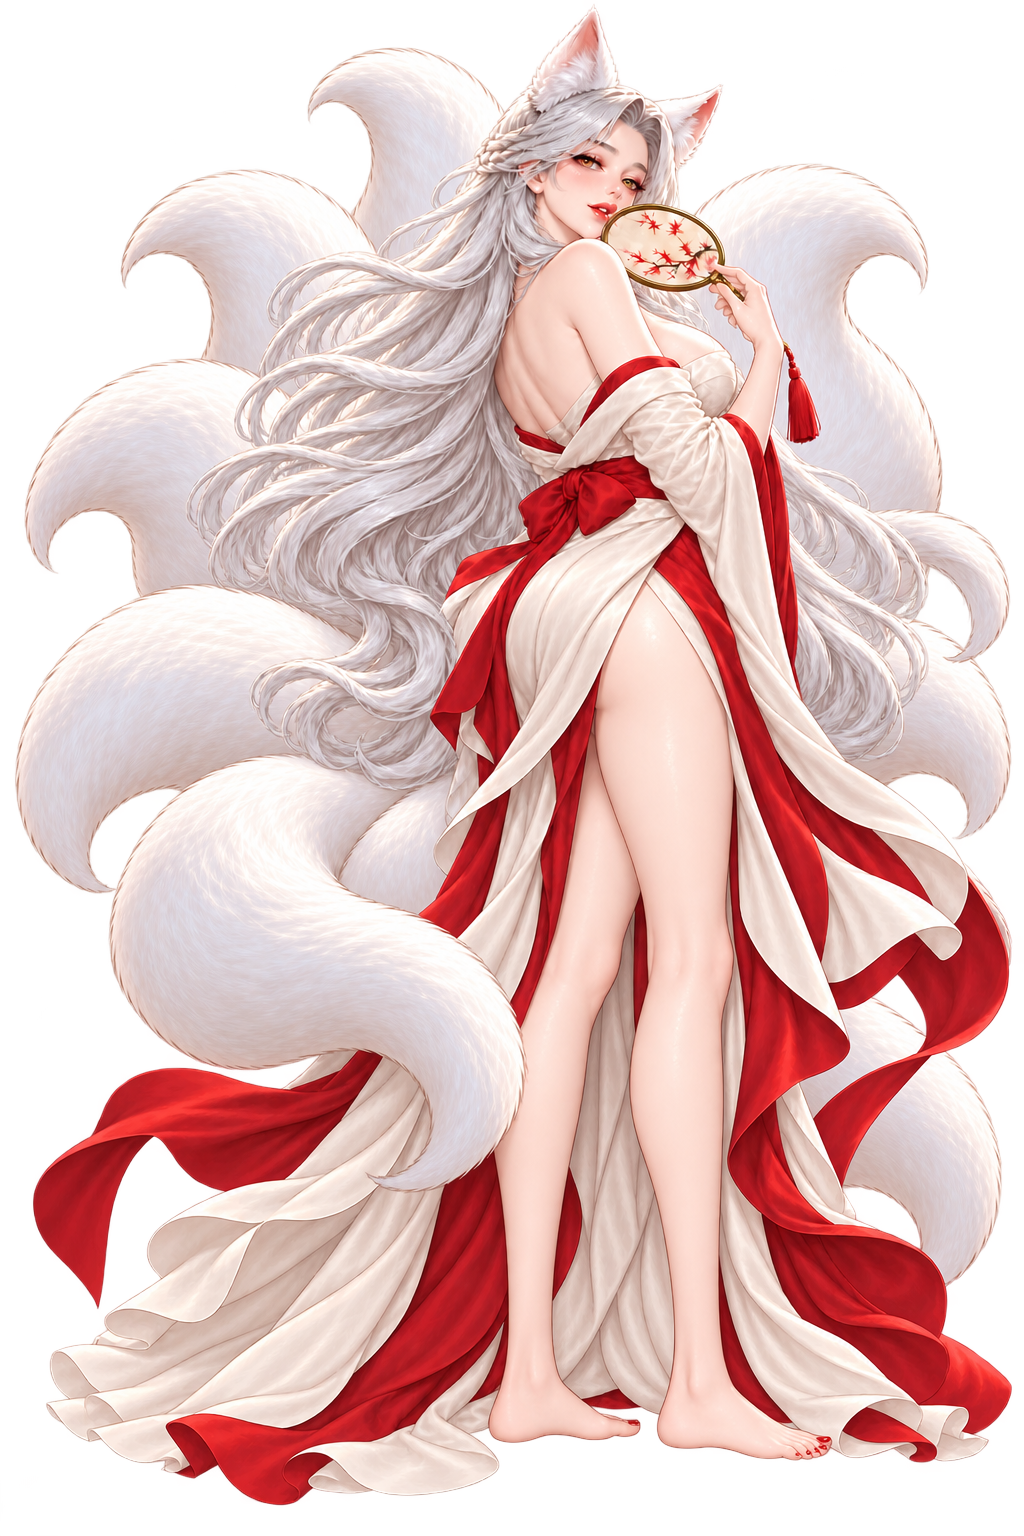
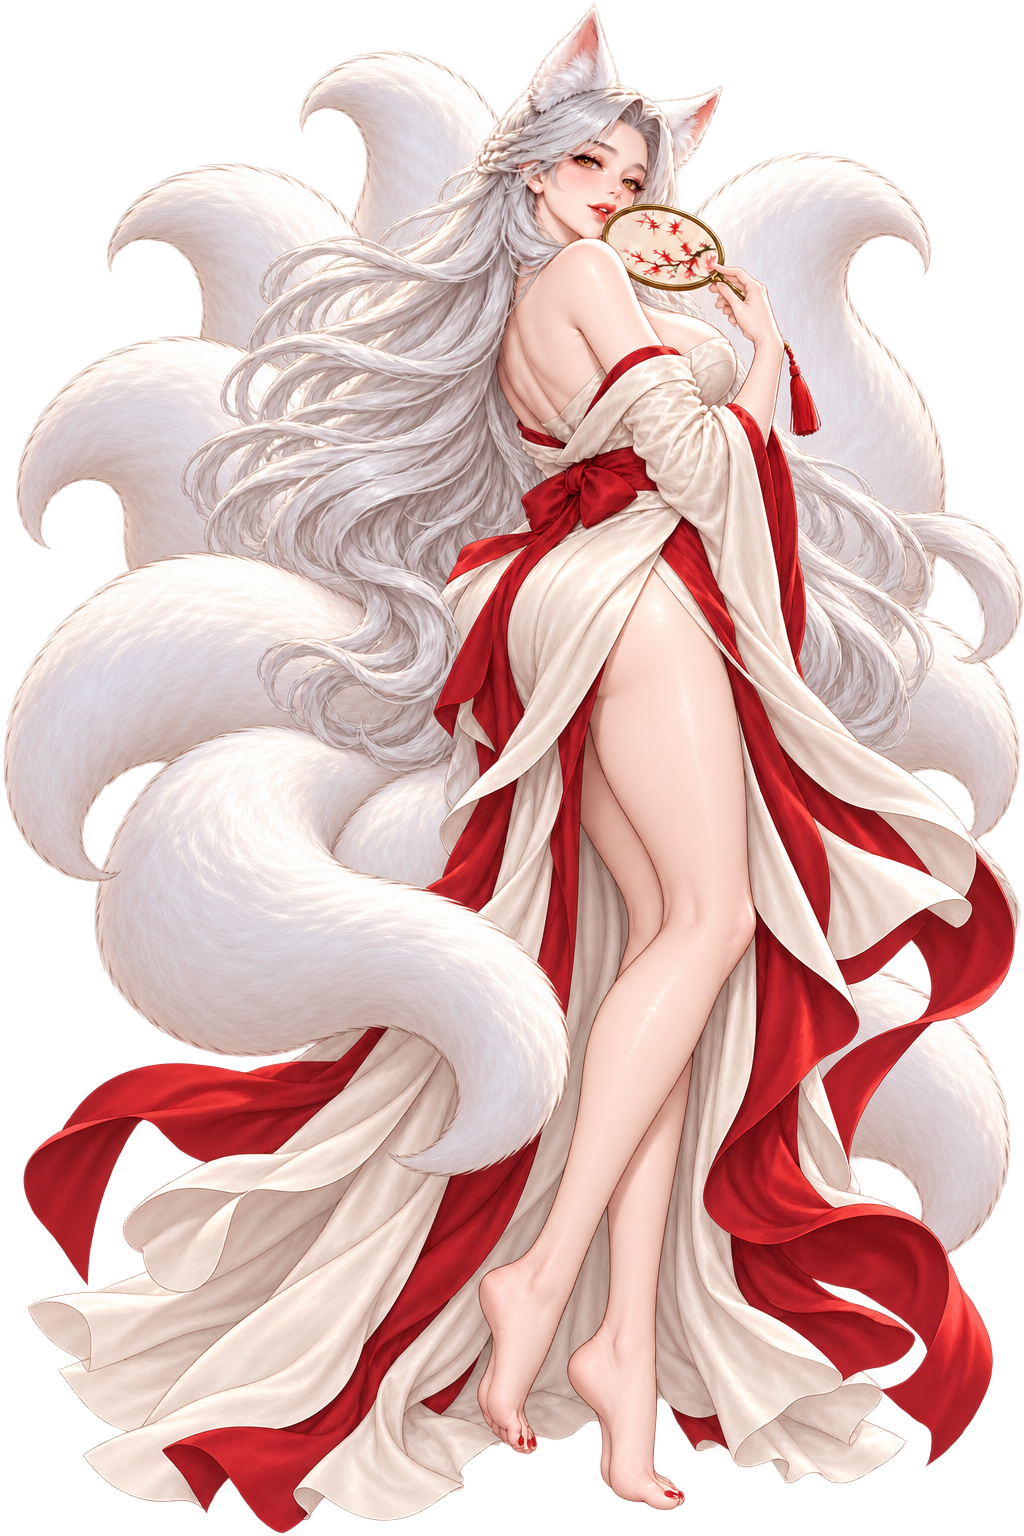
sample: 백설 포즈 되돌리고, 숨쉬기를 윗몸만 움직이게
- 발을 붙인 백설 그림은 자세가 어색해 이전 그림으로 되돌림
- 숨쉬기: 그림 전체가 커졌다 작아지던 것을, 다리·치마는 고정하고 가슴 위쪽만 허리를 축으로 살짝 오르내리게 바꿈(같은 그림 두 장을 마스크로 겹침)
- 누를 때 움찔하던 효과는 화면이 흔들려 보여 뺌(대사만 뜸)

Claude-Session: https://claude.ai/code/session_01AG3ixGBdGKPAAzXvjh6L4F

diff --git a/src/styles.css b/src/styles.css
@@ -603,12 +603,13 @@ body:has(.guide) .sheet { max-height: calc(100dvh - 150px); }
 .heroine { position: relative; }
 .heroine-art { position: relative; height: 100%; width: 100%; display: flex; justify-content: center; align-items: flex-end; }
 .heroine-art img { position: absolute; inset: 0; height: 100%; width: 100%; object-fit: contain; object-position: center bottom; }
-.heroine .heroine-img { transform-origin: 50% 100%; animation: breathe 4.2s ease-in-out infinite; filter: none; }
-.heroine-art.poked .heroine-img { animation: poke .5s ease-out, breathe 4.2s ease-in-out .5s infinite; }
+/* 숨쉬기: 아래(다리·치마)는 고정, 위(가슴·어깨·머리)만 허리를 축으로 아주 살짝 오르내린다.
+   같은 그림 두 장을 위·아래 그라데이션 마스크로 겹쳐 이음매가 보이지 않게 한다. */
+.heroine .heroine-img { -webkit-mask-image: linear-gradient(to bottom, transparent 40%, #000 56%); mask-image: linear-gradient(to bottom, transparent 40%, #000 56%); }
+.heroine .heroine-upper { -webkit-mask-image: linear-gradient(to bottom, #000 40%, transparent 56%); mask-image: linear-gradient(to bottom, #000 40%, transparent 56%); transform-origin: 50% 60%; animation: breathe 4.6s ease-in-out infinite; pointer-events: none; }
 /* 그림자: 그림의 맨 아래(발·치맛자락)만 잘라 납작하게 눕힌 실루엣 */
 .heroine .heroine-shadow { clip-path: inset(90% 0 0 0); transform-origin: 50% 100%; transform: translateY(2px) scaleY(.35); filter: brightness(0) blur(5px); opacity: .28; pointer-events: none; }
-@keyframes breathe { 0%, 100% { transform: scale(1, 1); } 50% { transform: scale(1.004, 1.012); } }
-@keyframes poke { 0% { transform: scale(1, 1); } 30% { transform: scale(1.025, .975); } 65% { transform: scale(.99, 1.018); } 100% { transform: scale(1, 1); } }
+@keyframes breathe { 0%, 100% { transform: scale(1, 1); } 45% { transform: scale(1.004, 1.009); } }
 .say { position: absolute; left: 14px; right: 14px; top: 8px; padding: 10px 12px; border-radius: 14px; background: rgba(255,252,248,.96); border: 1px solid var(--line); box-shadow: 0 6px 18px rgba(80,40,30,.16); display: grid; grid-template-columns: 1fr auto; gap: 2px 8px; align-items: end; animation: rise .25s ease; font-size: 15px; line-height: 1.5; }
 .say b { grid-column: 1 / -1; color: var(--seal); font: 700 14px var(--title); }
 .say button { color: var(--seal); font-weight: 700; font-size: 14px; white-space: nowrap; }

diff --git a/src/ui/HomeView.tsx b/src/ui/HomeView.tsx
@@ -55,9 +55,10 @@ export function HomeView({ view, now, open, go, onHeroine }: Props) {
    <button className="menu-icon" data-guide="feast" onClick={() => setBanquet(true)}><LineIcon name="cup" size={24}/><span>연회</span></button>
   </div>
   <div className="heroine">
-   <button key={taps} className={`heroine-art ${taps ? 'poked' : ''}`} aria-label={`${def.name}에게 말 걸기`} onClick={poke}>
+   <button className="heroine-art" aria-label={`${def.name}에게 말 걸기`} onClick={poke}>
     <img className="heroine-shadow" src={ART.full(def.id)} alt="" aria-hidden="true"/>
     <Art className="heroine-img" src={ART.full(def.id)} alt={def.name} fallback={<div className="portrait-fallback">{def.name}</div>}/>
+    <img className="heroine-upper" src={ART.full(def.id)} alt="" aria-hidden="true"/>
    </button>
   </div>
   {line ? <div className="say" role="status"><b>{def.name}</b><span>{line}</span><button onClick={() => onHeroine(def.id)}>대화하기 ›</button></div> : !step && <button className="quest" onClick={() => go(hint.target)}><b>할 일</b><span>{hint.text}</span><em>가기 ›</em></button>}
